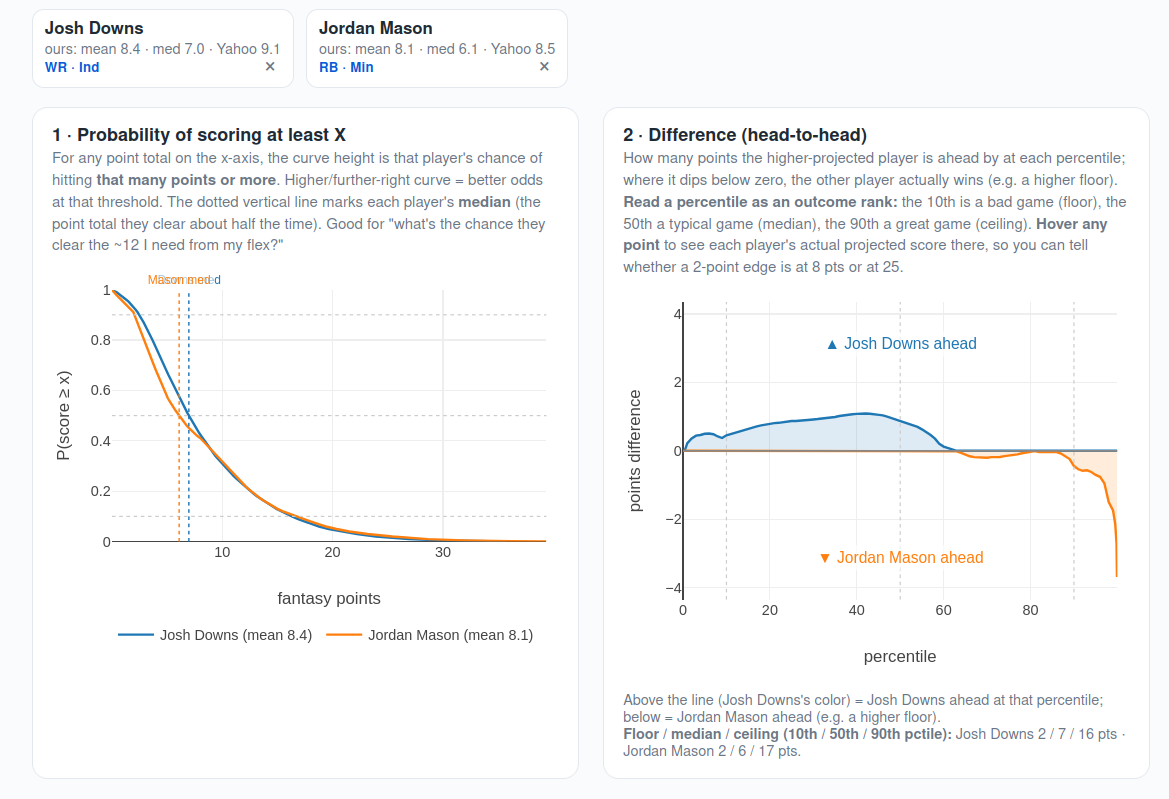
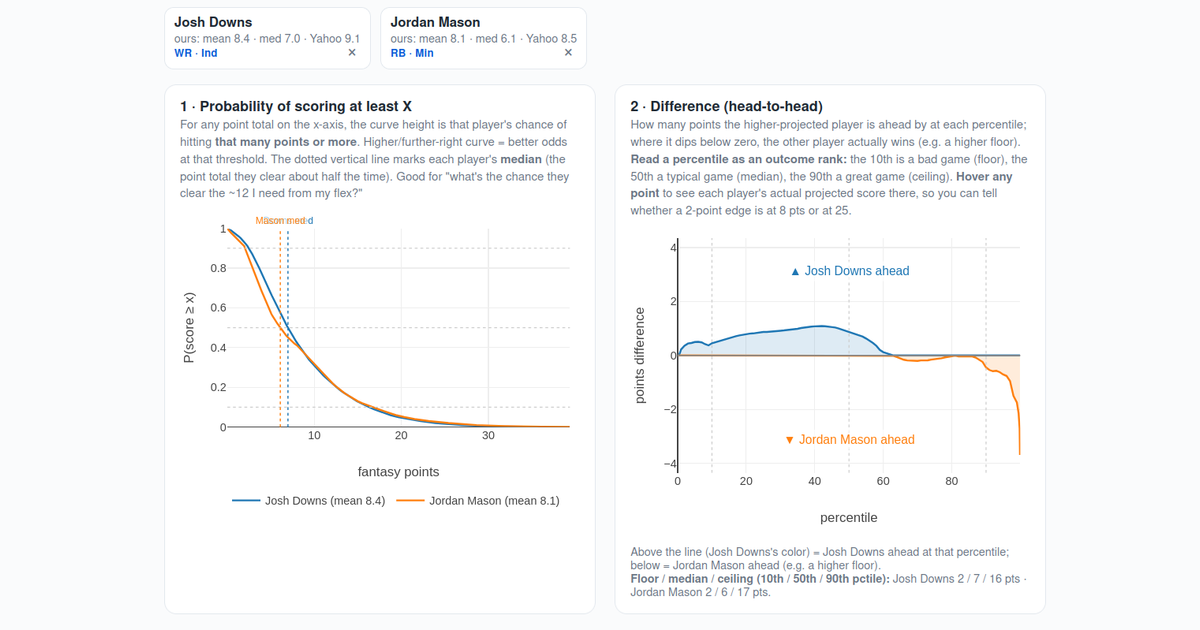
Social preview: pad image to 1200x630 (no crop)

diff --git a/web_public/index.html b/web_public/index.html
@@ -12,8 +12,8 @@
   <meta property="og:description" content="Fantasy projections built from sportsbook player-prop odds: compare two players' full score distributions (floor / median / ceiling), not just a point estimate." />
   <meta property="og:url" content="https://dkori.github.io/odds-derived-ff-projections/" />
   <meta property="og:image" content="https://dkori.github.io/odds-derived-ff-projections/static/preview.png" />
-  <meta property="og:image:width" content="1169" />
-  <meta property="og:image:height" content="799" />
+  <meta property="og:image:width" content="1200" />
+  <meta property="og:image:height" content="630" />
   <meta name="twitter:card" content="summary_large_image" />
   <meta name="twitter:title" content="Odds-Derived Fantasy Projections — Head-to-Head" />
   <meta name="twitter:description" content="Fantasy projections built from sportsbook player-prop odds: compare two players' full score distributions (floor / median / ceiling), not just a point estimate." />
